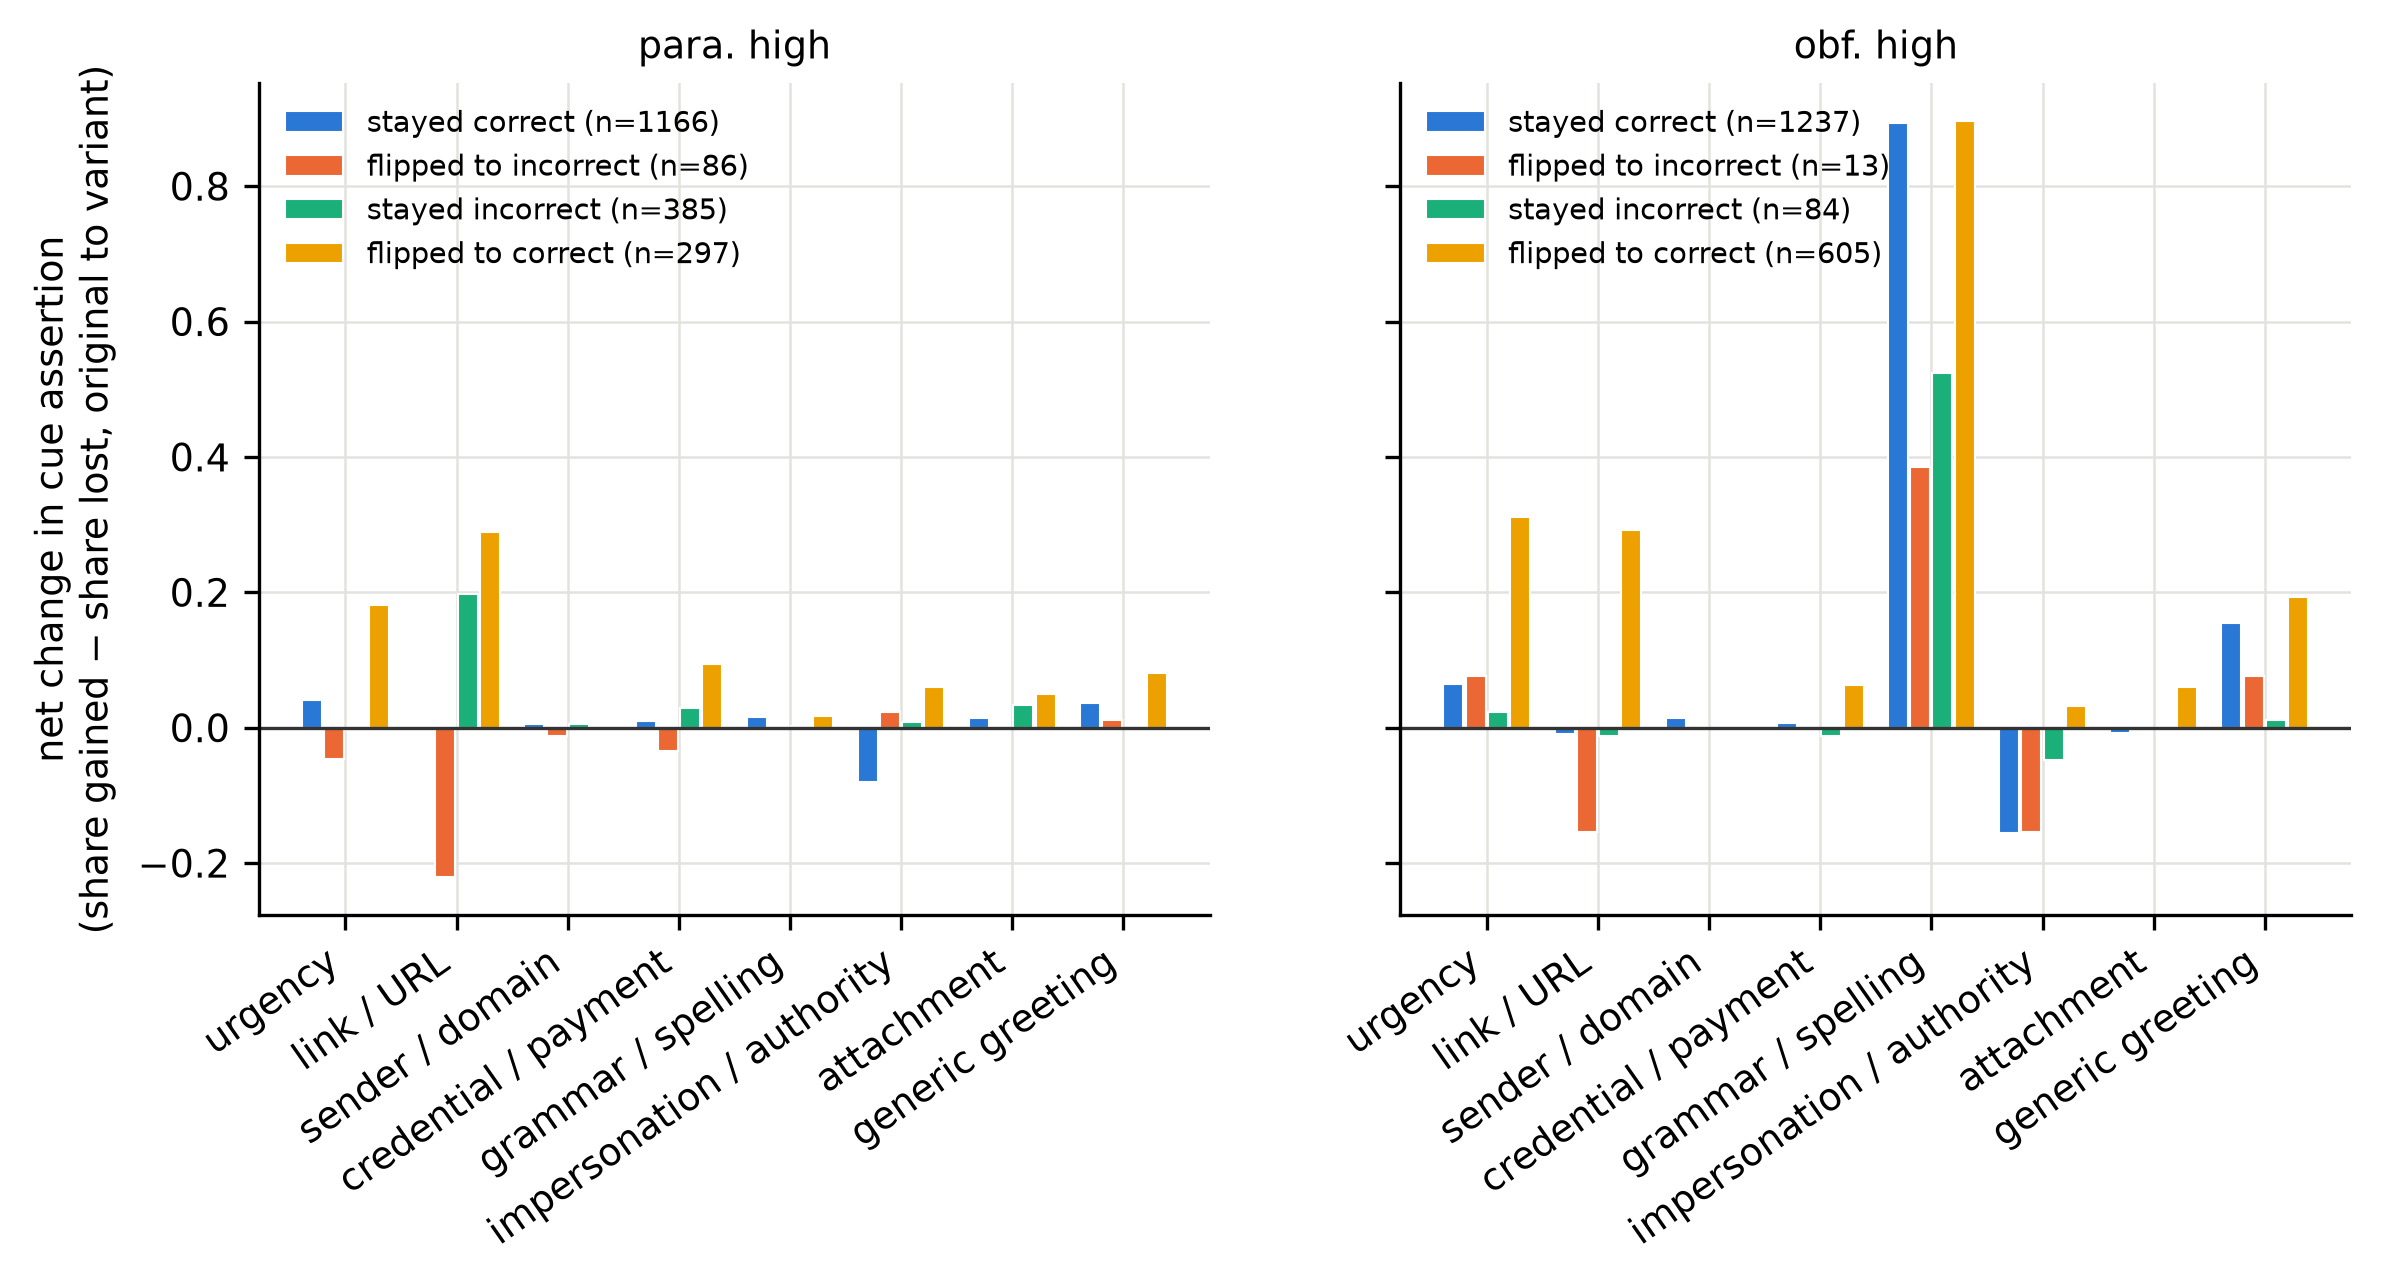
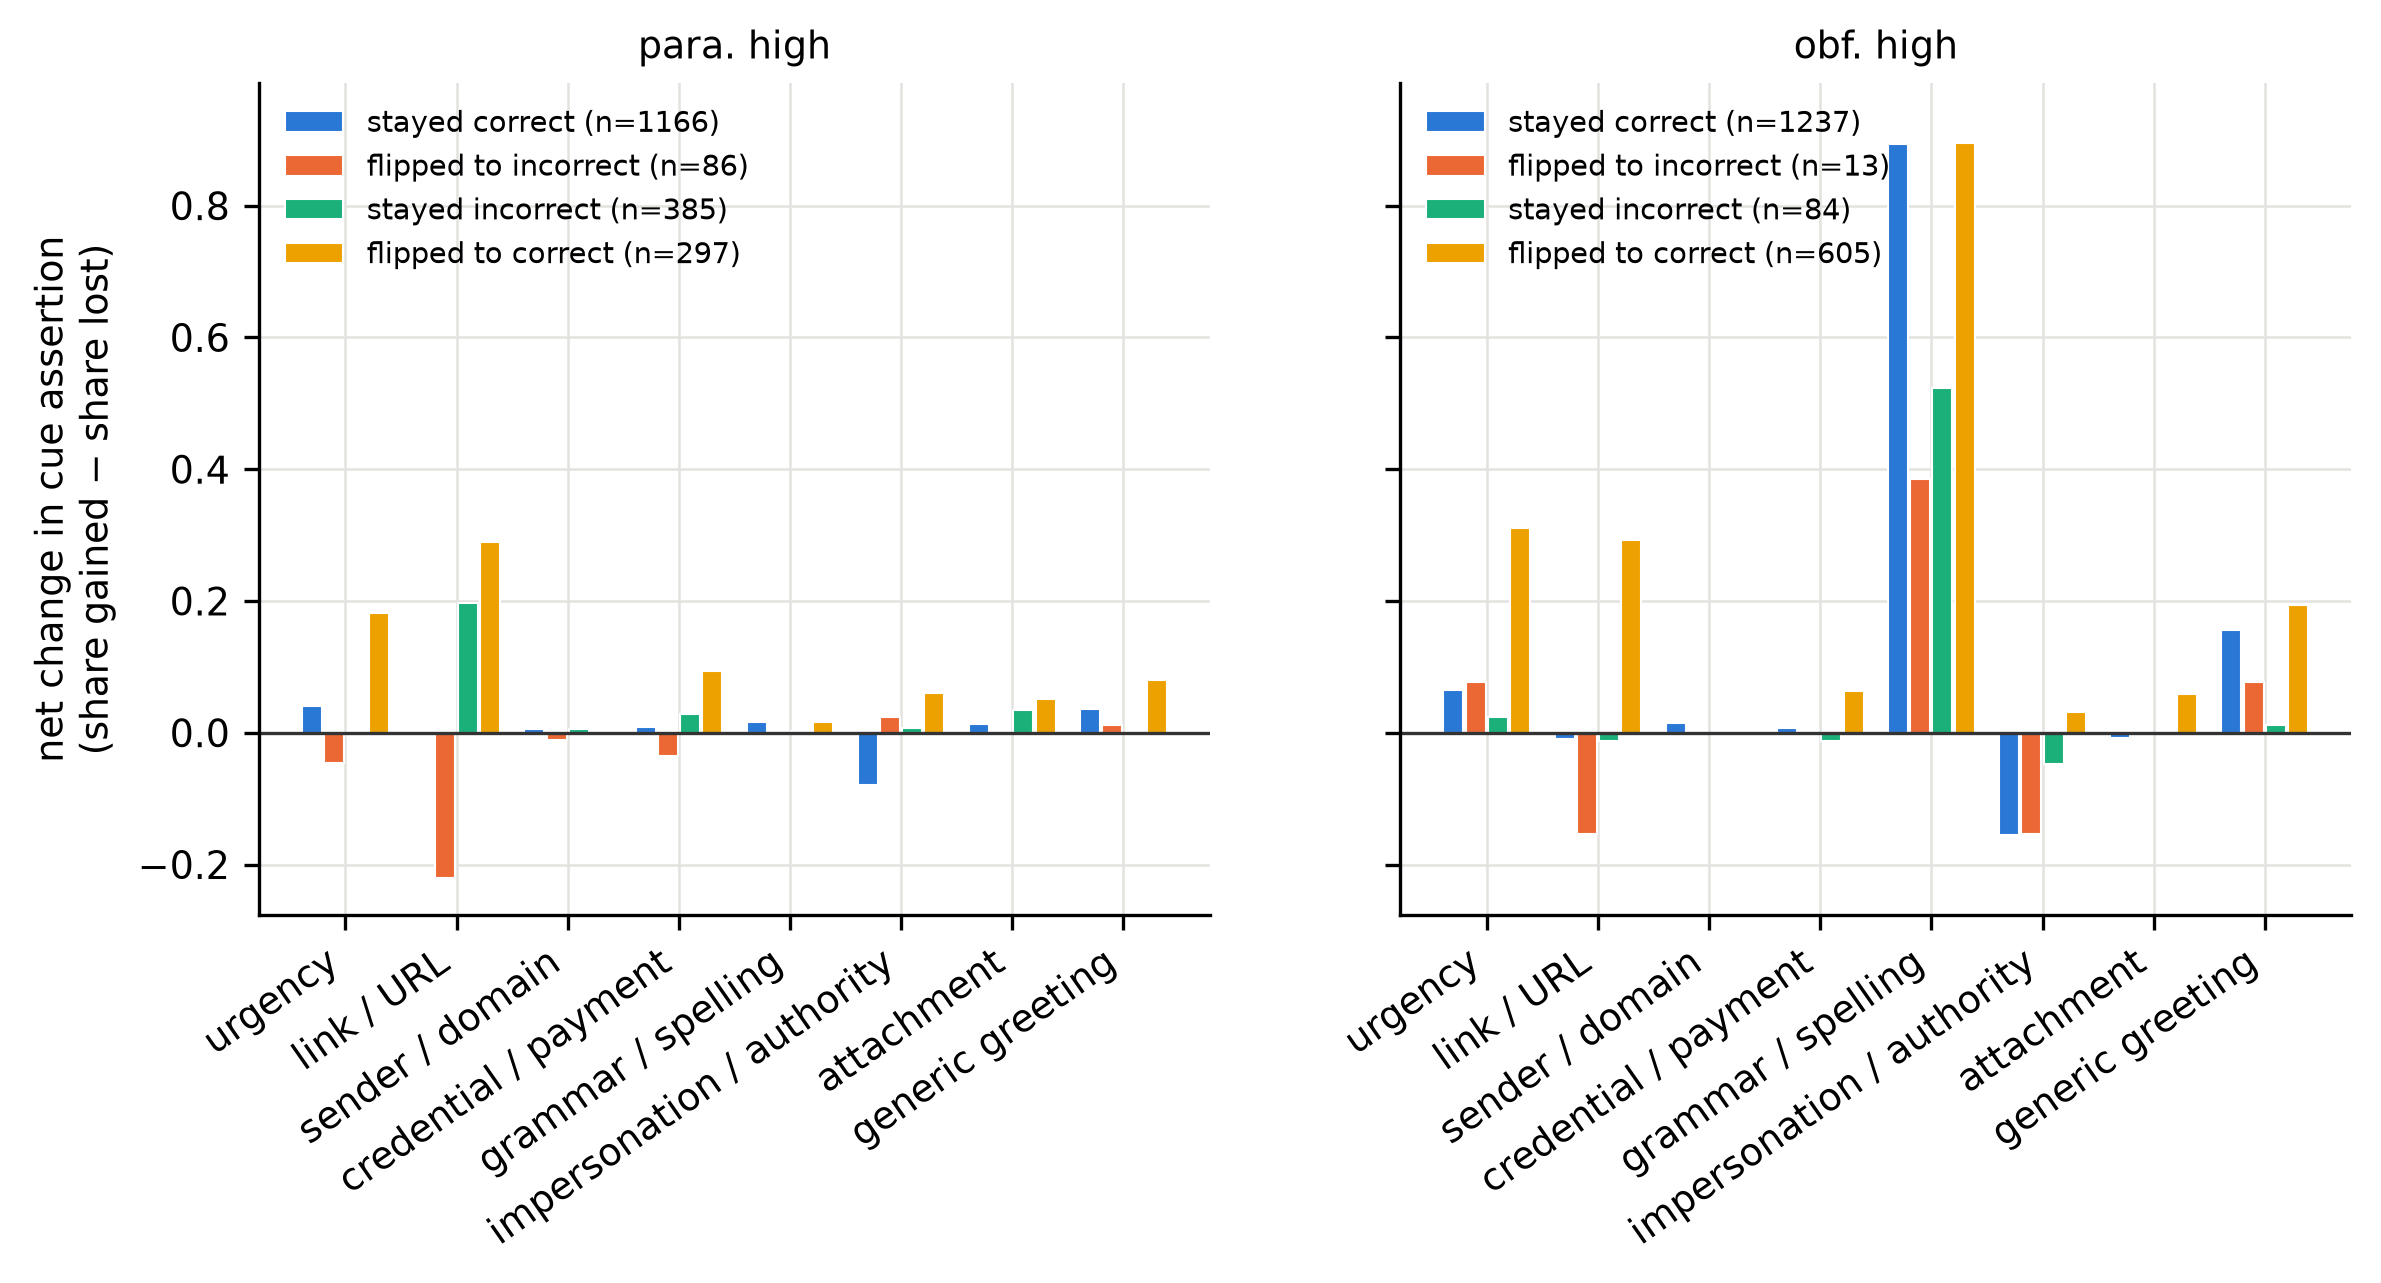
Figure fixes: F5 label overlap, F6 y-limit

diff --git a/scripts/07_tables_figures.py b/scripts/07_tables_figures.py
@@ -337,6 +337,8 @@ def fig_f5(F):
     fig, axes = plt.subplots(1, 2, figsize=(8, 3.6), sharey=True)
     markers = {"zero_shot": "o", "few_shot": "s", "cot": "D", "role": "^"}
     offsets = {"baseline_tfidf_lr": (5, 5), "baseline_tfidf_svm": (5, -9), "baseline_distilbert": (5, 2)}
+    # obf. high: the LR and SVM markers almost coincide (delta +0.03 and 0.00), so LR goes above, SVM below
+    offsets_obf = {**offsets, "baseline_tfidf_lr": (5, 9), "baseline_tfidf_svm": (5, -15)}
     for ax, cond in zip(axes, ["para_high", "obf_high"]):
         for _, r in F.iterrows():
             y, lo, hi = r[f"delta_sens_{cond}"], r[f"ci_lo_{cond}"], r[f"ci_hi_{cond}"]
@@ -345,7 +347,8 @@ def fig_f5(F):
             else:
                 x = max(r["latency_median_s"], 1e-3)
                 ax.plot(x, y, marker="x", color=GREY, ms=6)
-                ax.annotate(NAME[r["detector"]], (x, y), fontsize=6.5, color=GREY, xytext=offsets[r["detector"]], textcoords="offset points")
+                off = (offsets_obf if cond == "obf_high" else offsets)[r["detector"]]
+                ax.annotate(NAME[r["detector"]], (x, y), fontsize=6.5, color=GREY, xytext=off, textcoords="offset points")
         ax.set_xscale("log"); ax.axhline(0, color="#333333", lw=0.8)
         ax.set_title(COND[cond], fontsize=9, fontweight="normal")
     axes[0].set_ylabel("$\\Delta$ sensitivity (original $-$ variant)")
@@ -372,7 +375,9 @@ def fig_f6(cues_c):
         ax.set_xticks(range(8)); ax.set_xticklabels([CAT[c] for c in CATEGORIES], rotation=35, ha="right")
         ax.set_title(COND[cond], fontsize=9, fontweight="normal")
         ax.legend(fontsize=7, loc="upper left")
-    axes[0].set_ylabel("net change in cue assertion\n(share gained $-$ share lost, original to variant)")
+    top = float(chg[chg["condition"].isin(["para_high", "obf_high"])]["net"].max())
+    axes[0].set_ylim(top=top * 1.10)                      # 10% headroom so the tallest bar is not clipped
+    axes[0].set_ylabel("net change in cue assertion\n(share gained $-$ share lost)")
     return save_fig(fig, "f6_cue_change")
 
 
